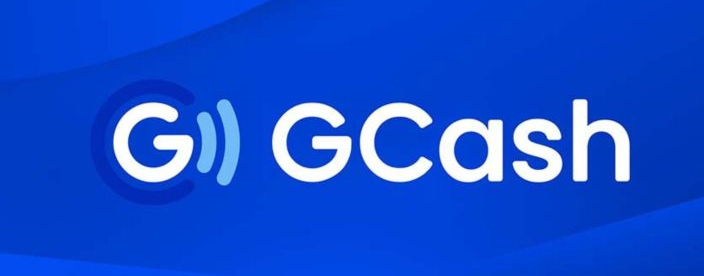
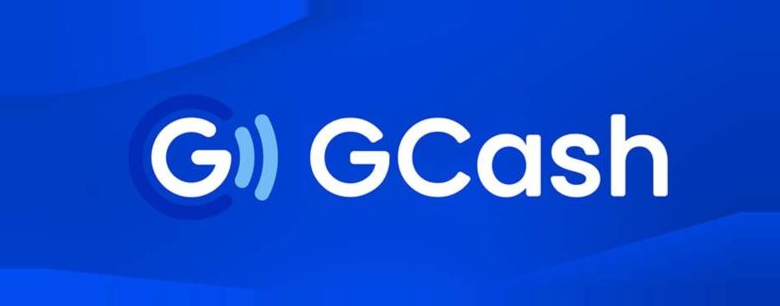
fix: reduce payment brand mark scale

diff --git a/.scratch/checkout/issues/05-payment-methods-the-chooser-recorded-tenders-and-the-cash-only-default.md b/.scratch/checkout/issues/05-payment-methods-the-chooser-recorded-tenders-and-the-cash-only-default.md
@@ -87,7 +87,8 @@ The branded methods now render as image-only 112px buttons with accessible names
 brand backgrounds; each mark retains proportional native background padding. Plain methods retain
 text chips. Selected methods retain the pressed background and add a visible ring so the state is
 clear over either brand image. The chooser owns two thirds of the wide header and keeps every
-method on one horizontal row; narrow layouts scroll that row instead of wrapping Maya.
+method on one horizontal row; narrow layouts scroll that row instead of wrapping Maya. Both marks
+use expanded edge-matched background padding to keep their visual scale compact without distortion.
 
 Final proof: payment panel 5/5 including axe, image-only brand identity, generic-chip fallback,
 selected-state semantics and styling, cash-only/configured variants, and responsive layout seams;
